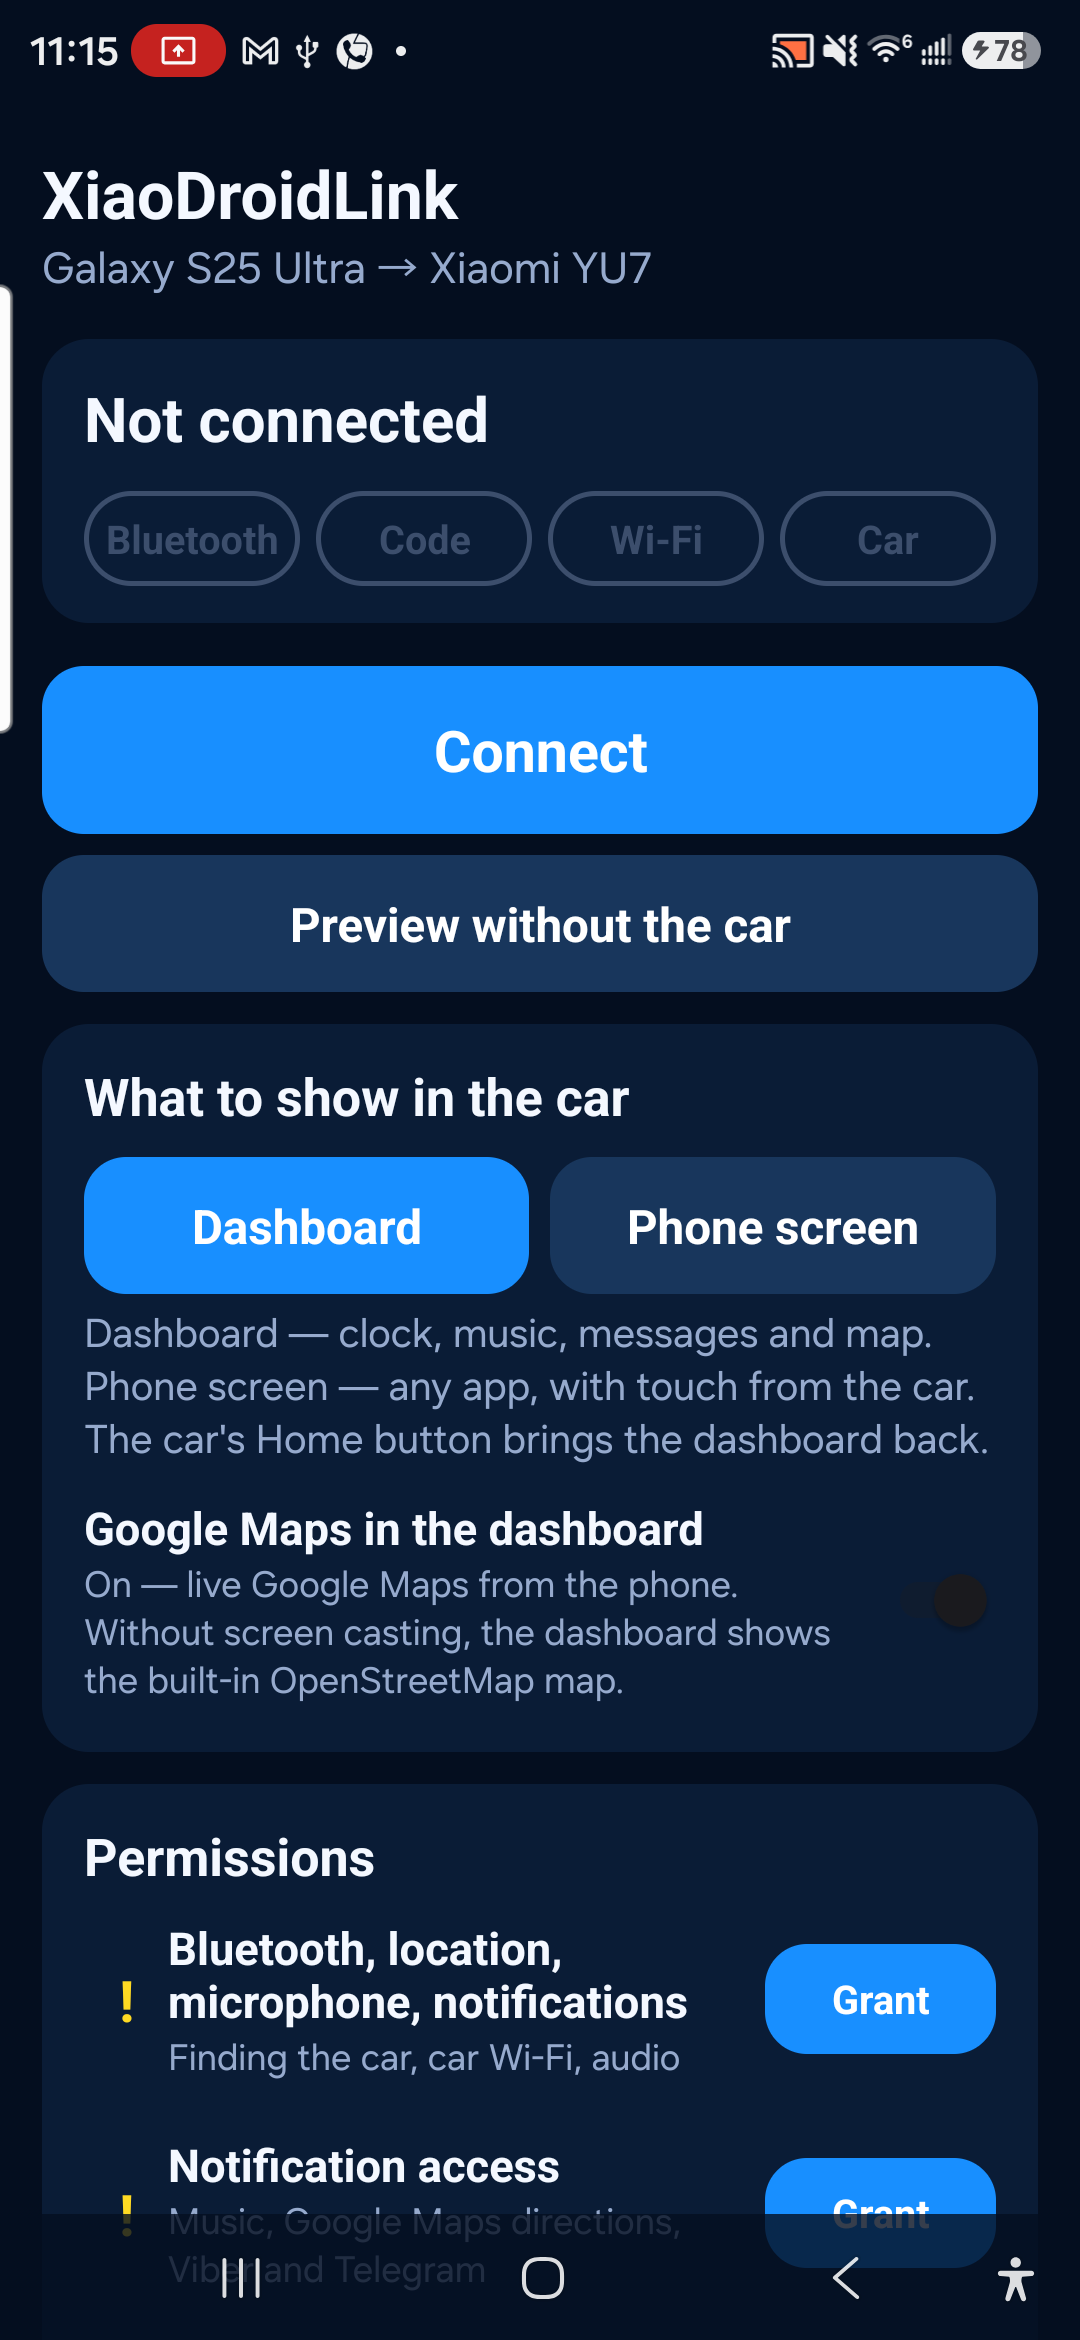
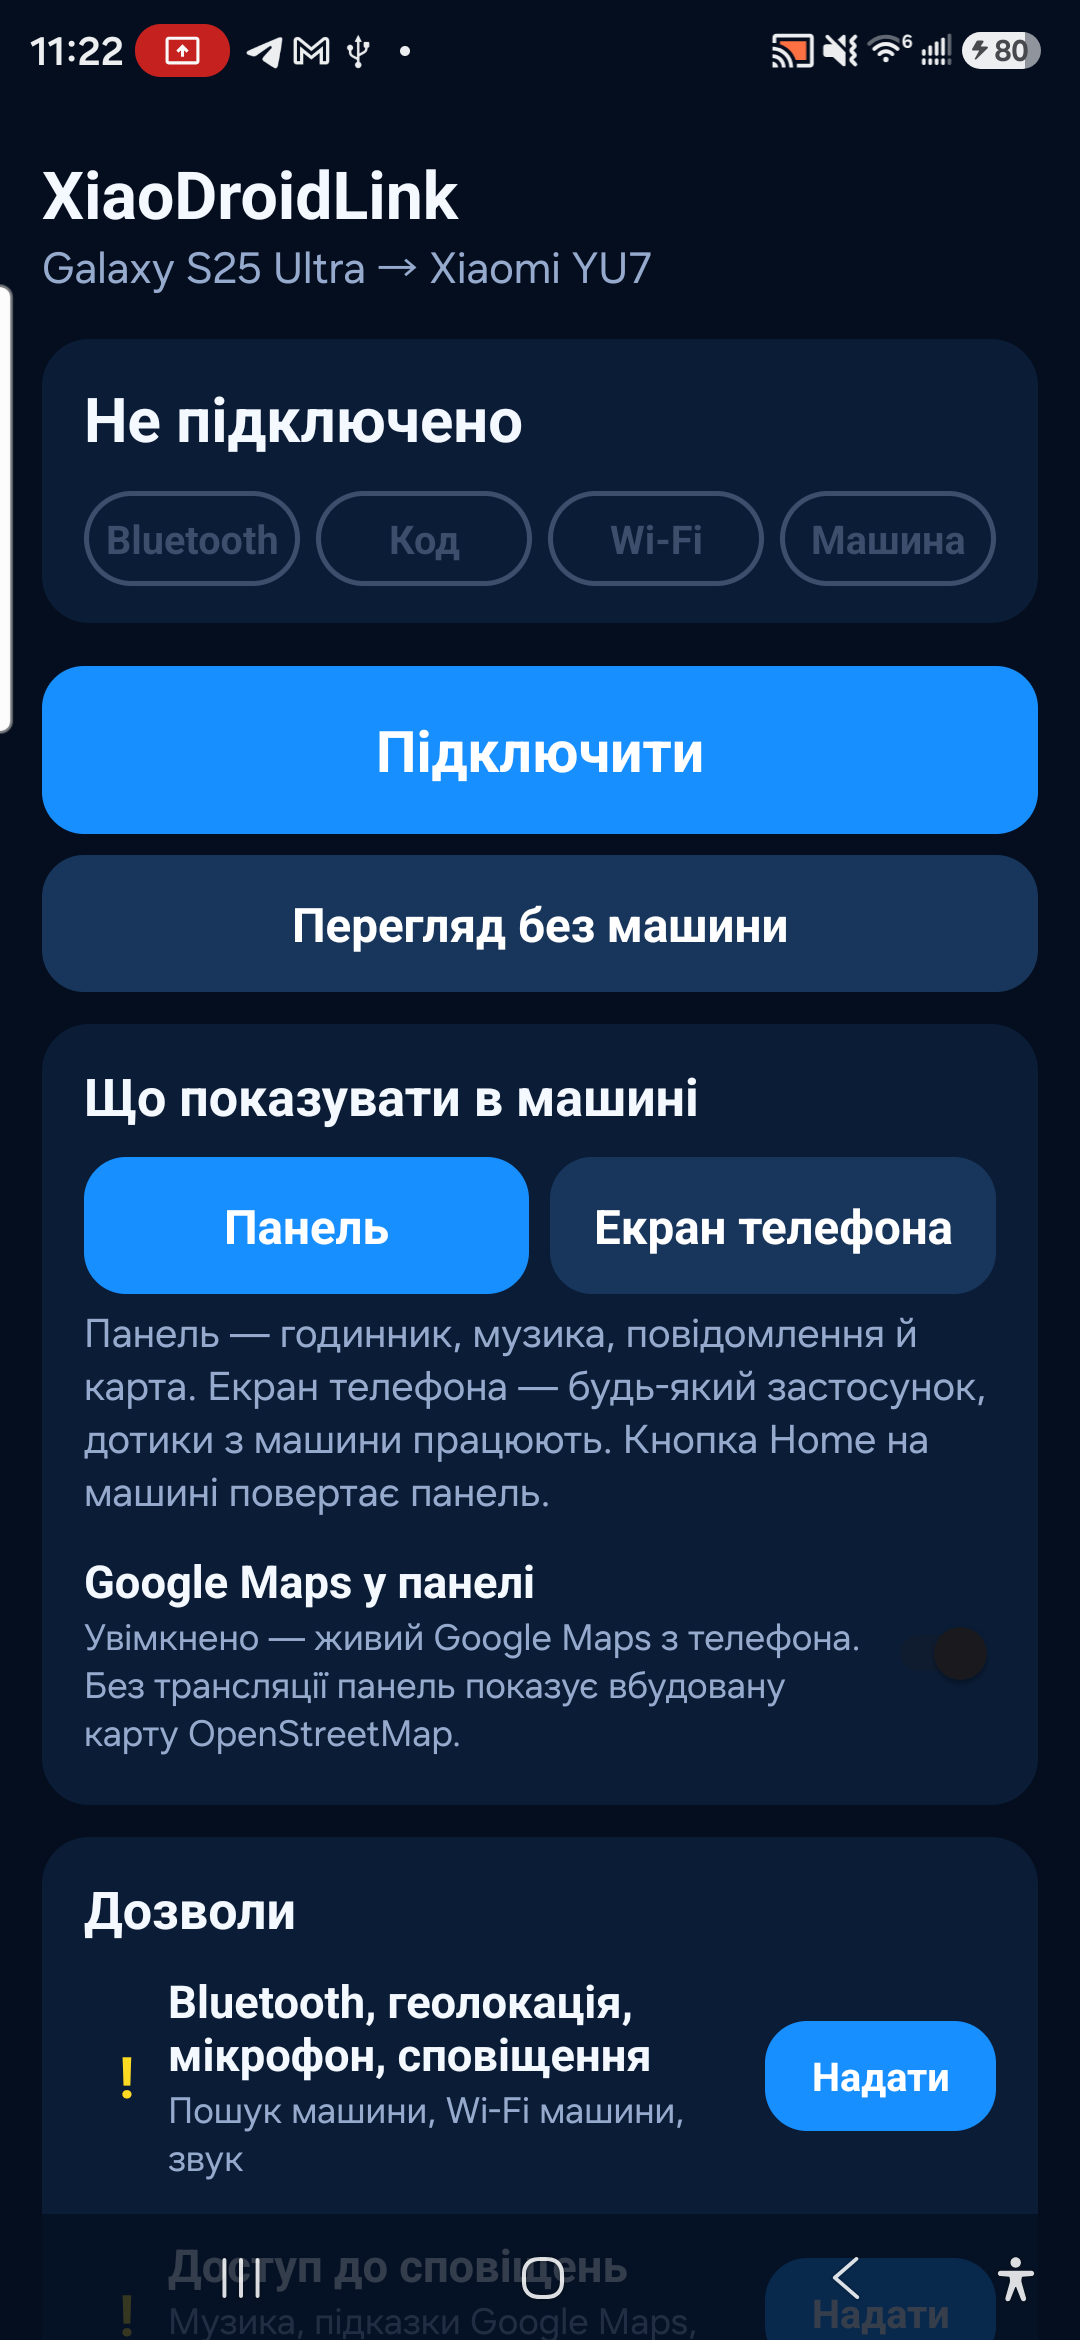
Use Ukrainian screenshots and car preview

diff --git a/README.ua.md b/README.ua.md
@@ -28,9 +28,9 @@ XiaoDroidLink підключає Android-телефон до екрана Xiaomi
 |---|---|
 | ![Екран підключення XiaoDroidLink](images/xiaodroidlink-connect.png) | ![Дозволи XiaoDroidLink](images/xiaodroidlink-permissions.png) |
 
-| Налаштування | Програми і безпека |
+| Налаштування | Як виглядає на екрані машини |
 |---|---|
-| ![Налаштування XiaoDroidLink](images/xiaodroidlink-connection.png) | ![Програми і безпека XiaoDroidLink](images/xiaodroidlink-active.png) |
+| ![Налаштування XiaoDroidLink](images/xiaodroidlink-settings.png) | ![Панель XiaoDroidLink на екрані машини](images/xiaodroidlink-car-preview.png) |
 
 ## Як встановити
 

diff --git a/README.md b/README.md
@@ -28,9 +28,9 @@ This is an independent app. It is not an official Xiaomi, Samsung, ICCOA, Androi
 |---|---|
 | ![XiaoDroidLink connect screen](images/xiaodroidlink-connect.png) | ![XiaoDroidLink permissions screen](images/xiaodroidlink-permissions.png) |
 
-| Settings | Apps and safety |
+| Settings | Car screen preview |
 |---|---|
-| ![XiaoDroidLink settings screen](images/xiaodroidlink-connection.png) | ![XiaoDroidLink apps and safety screen](images/xiaodroidlink-active.png) |
+| ![XiaoDroidLink settings screen](images/xiaodroidlink-settings.png) | ![XiaoDroidLink dashboard on the car screen](images/xiaodroidlink-car-preview.png) |
 
 ## Install
 
